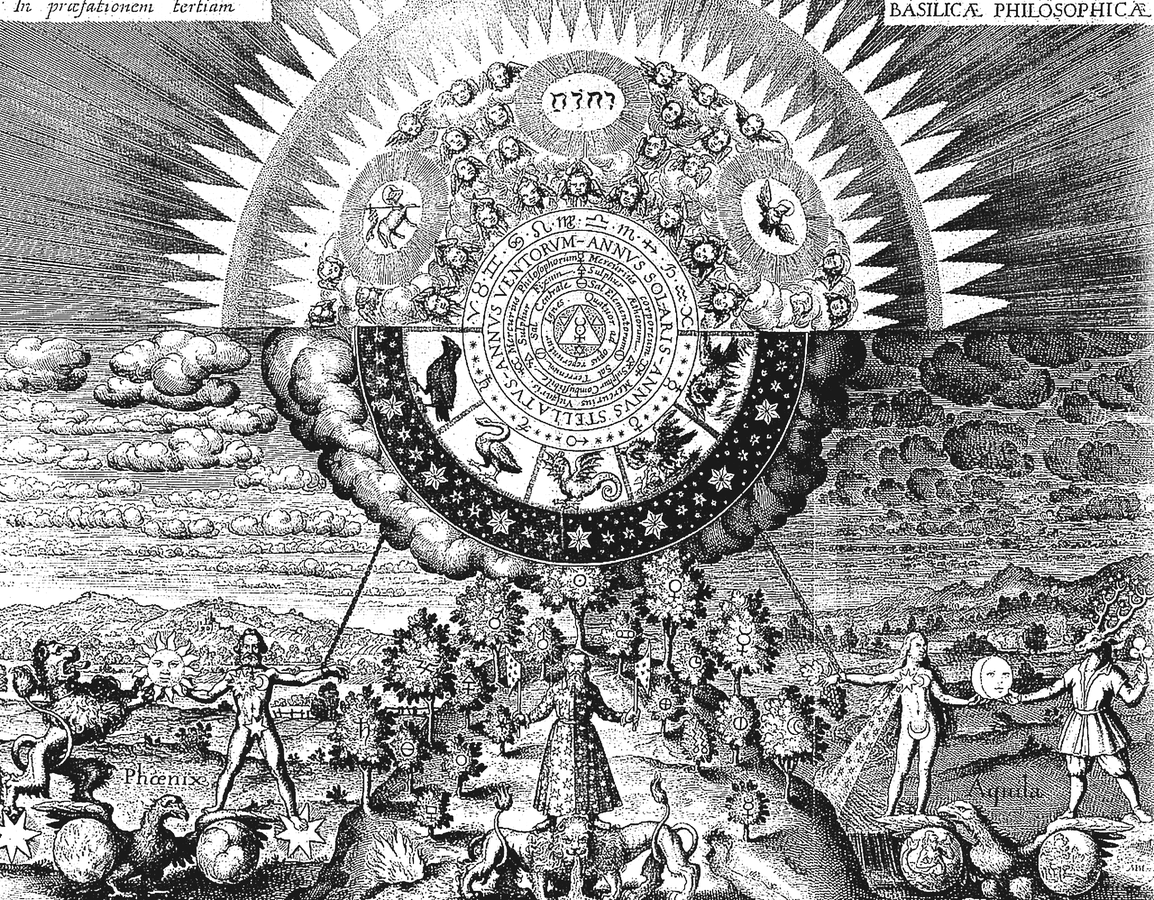
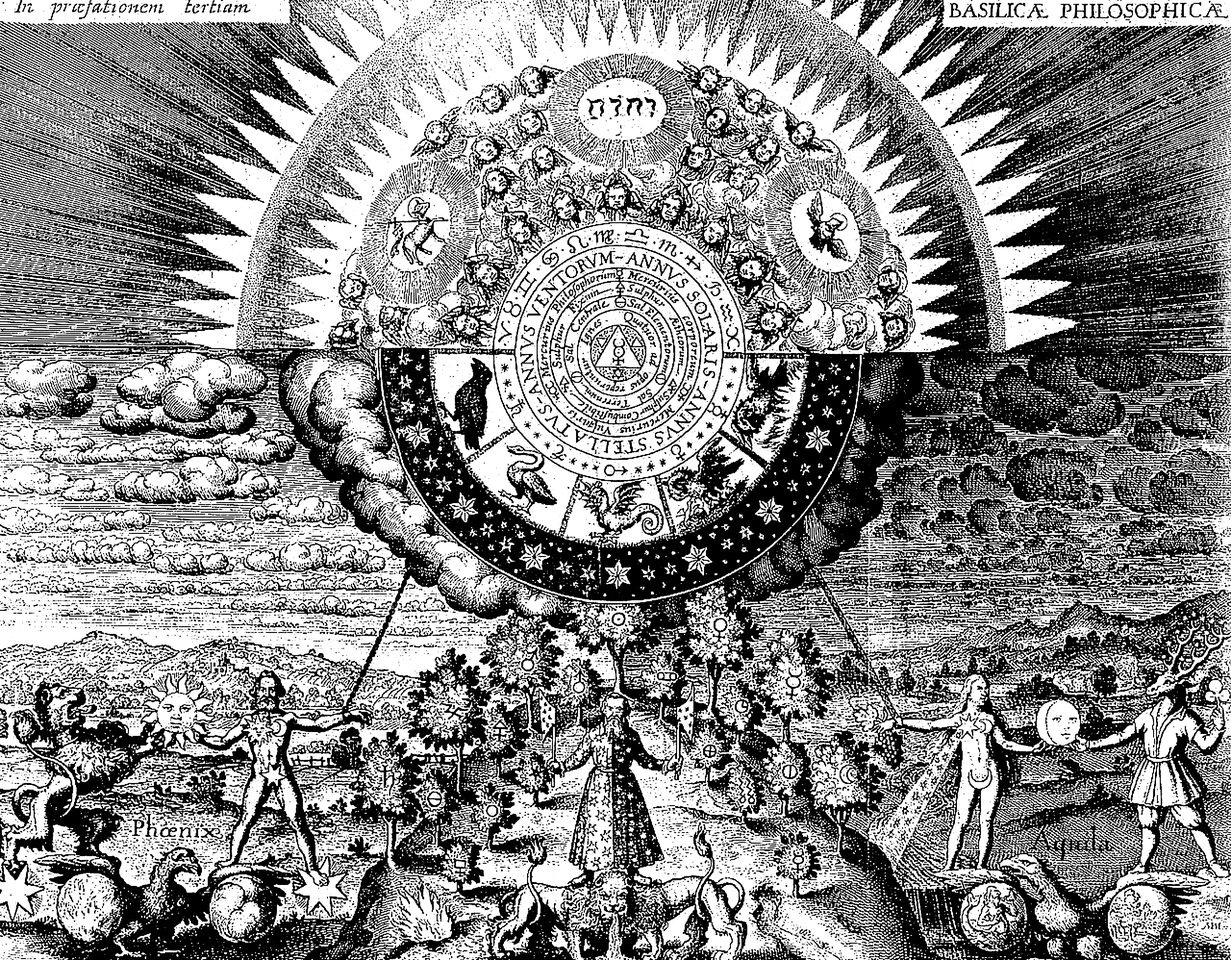
Backdrop: Christie's Durer plates, perfect black-and-white keying
Nine plates downloaded from Christie's "Durer: 10 things to know" at
full resolution (~3200px). Processing unified into a committed script
(scripts/make_backdrops.py): grayscale, per-image autocontrast,
sharpen, then a near-binary luminance->alpha ramp (>=200 fully
transparent, <=120 fully opaque pure black, thin AA band between).
Whites are perfectly clean, stroke cores perfectly black; opacity
fades the ink alone.

Pool grows to 14 framings across 10 plates: St Jerome (two crops,
replacing the Met screenshot), Melencolia I, Four Horsemen (two),
Prodigal Son, St Eustace, Whore of Babylon, Rhinoceros (two), plus
the reprocessed Flammarion/Merian/van der Straet.

Adam and Eve was downloaded but left out of the rotation.

diff --git a/src/App.js b/src/App.js
@@ -1192,14 +1192,22 @@ function Toasts({ toasts }) {
 // reappears or the view changes, so the site never shows the same wall twice
 // in a row.
 const BACKDROP_PLATES = [
-  { img: "jerome",      pos: "70% 25%" },    // Dürer, St Jerome writing at his desk
-  { img: "flammarion",  pos: "center 30%" }, // the Flammarion engraving
-  { img: "flammarion",  pos: "24% 22%" },
-  { img: "melencolia",  pos: "center 22%" }, // Dürer, Melencolia I
-  { img: "cosmos",      pos: "center 18%" }, // Merian, Basilica Philosophica
-  { img: "rhinoceros",  pos: "center 42%" }, // Dürer, Rhinoceros
-  { img: "rhinoceros",  pos: "82% center" },
-  { img: "destillatio", pos: "center 32%" }, // van der Straet, the distillation workshop
+  // Dürer (Christie's photographs of the plates)
+  { img: "jerome",        pos: "center 28%" }, // St Jerome writing in his study
+  { img: "jerome",        pos: "center 68%" }, // …the lion at his feet
+  { img: "melencolia",    pos: "center 24%" }, // Melencolia I
+  { img: "four-horsemen", pos: "center 35%" }, // The Four Horsemen of the Apocalypse
+  { img: "four-horsemen", pos: "28% center" },
+  { img: "prodigal-son",  pos: "center 42%" }, // The Prodigal Son
+  { img: "st-eustace",    pos: "center 45%" }, // Saint Eustace, the knight and his horse
+  { img: "whore-babylon", pos: "center 38%" }, // The Whore of Babylon
+  { img: "rhinoceros",    pos: "center 45%" }, // The Rhinoceros
+  { img: "rhinoceros",    pos: "80% center" },
+  // the wider esoteric set
+  { img: "flammarion",    pos: "center 30%" }, // the Flammarion engraving
+  { img: "flammarion",    pos: "24% 22%" },
+  { img: "cosmos",        pos: "center 18%" }, // Merian, Basilica Philosophica
+  { img: "destillatio",   pos: "center 32%" }, // van der Straet, the distillation workshop
 ];
 
 function Backdrop({ view, hidden }) {

diff --git a/scripts/make_backdrops.py b/scripts/make_backdrops.py
@@ -1,0 +1,78 @@
+#!/usr/bin/env python3
+"""
+Build the engraving backdrops (public/backdrops/*.webp).
+
+Each source plate is reduced to pure ink on transparency:
+  • grayscale + per-image autocontrast (paper -> white, ink -> black)
+  • sharpened
+  • luminance -> alpha through a narrow near-binary ramp: paper and the
+    white between hatching strokes go fully transparent, stroke cores go
+    fully opaque pure black, with only a thin anti-aliasing band between.
+The site then fades the lines alone (opacity), so the page never greys.
+
+Sources:
+  scripts/assets/durer/          Christie's photographs of Dürer plates
+  ~/Desktop/Inkk Inspo Pictures  the non-Dürer plates (Flammarion, Merian,
+                                 van der Straet)
+Re-run after adding a source: python3 scripts/make_backdrops.py
+"""
+import os
+from PIL import Image, ImageFilter, ImageOps
+
+HERE    = os.path.dirname(os.path.abspath(__file__))
+DURER   = os.path.join(HERE, "assets", "durer")
+DESKTOP = os.path.expanduser("~/Desktop/Inkk Inspo Pictures")
+DST     = os.path.join(os.path.dirname(HERE), "public", "backdrops")
+
+# name -> source path
+SOURCES = {
+    # Christie's Dürers (photographed impressions, ~3200px)
+    "jerome":        os.path.join(DURER, "st-jerome.jpg"),
+    "melencolia":    os.path.join(DURER, "melencolia.jpg"),
+    "rhinoceros":    os.path.join(DURER, "rhinoceros.jpg"),
+    "four-horsemen": os.path.join(DURER, "four-horsemen.jpg"),
+    "prodigal-son":  os.path.join(DURER, "prodigal-son.jpg"),
+    "st-eustace":    os.path.join(DURER, "st-eustace.jpg"),
+    "whore-babylon": os.path.join(DURER, "whore-babylon.jpg"),
+    # the wider esoteric set
+    "flammarion":    os.path.join(DESKTOP, "Flammarion.jpg"),
+    "cosmos":        os.path.join(DESKTOP, "Alchemy-picture-M.-Merian-for-website.jpg"),
+    "destillatio":   os.path.join(DESKTOP, "3_van-der-straet_destillatio-web.jpg"),
+}
+
+MAX   = 2600   # longest side
+WHITE = 200    # luminance at/above -> fully transparent (perfect white)
+BLACK = 120    # luminance at/below -> fully opaque (perfect black)
+INK   = (0, 0, 0)
+
+def build(name, src):
+    im = Image.open(src).convert("L")
+    if max(im.size) > MAX:
+        s = MAX / max(im.size)
+        im = im.resize((round(im.width * s), round(im.height * s)), Image.LANCZOS)
+    im = ImageOps.autocontrast(im, cutoff=2)
+    im = im.filter(ImageFilter.UnsharpMask(radius=2.0, percent=140, threshold=2))
+    def alpha(v):
+        if v >= WHITE: return 0
+        if v <= BLACK: return 255
+        return round(255 * (WHITE - v) / (WHITE - BLACK))
+    out = Image.new("RGBA", im.size, INK + (0,))
+    out.putalpha(im.point(alpha))
+    path = os.path.join(DST, f"{name}.webp")
+    out.save(path, quality=85, method=6, alpha_quality=95)
+    return im.size, os.path.getsize(path) // 1024
+
+def main():
+    os.makedirs(DST, exist_ok=True)
+    total = 0
+    for name, src in SOURCES.items():
+        if not os.path.exists(src):
+            print(f"{name:14s} SKIPPED (missing {src})")
+            continue
+        size, kb = build(name, src)
+        total += kb
+        print(f"{name:14s} {size[0]}x{size[1]}  {kb} KB")
+    print(f"total {total} KB")
+
+if __name__ == "__main__":
+    main()
